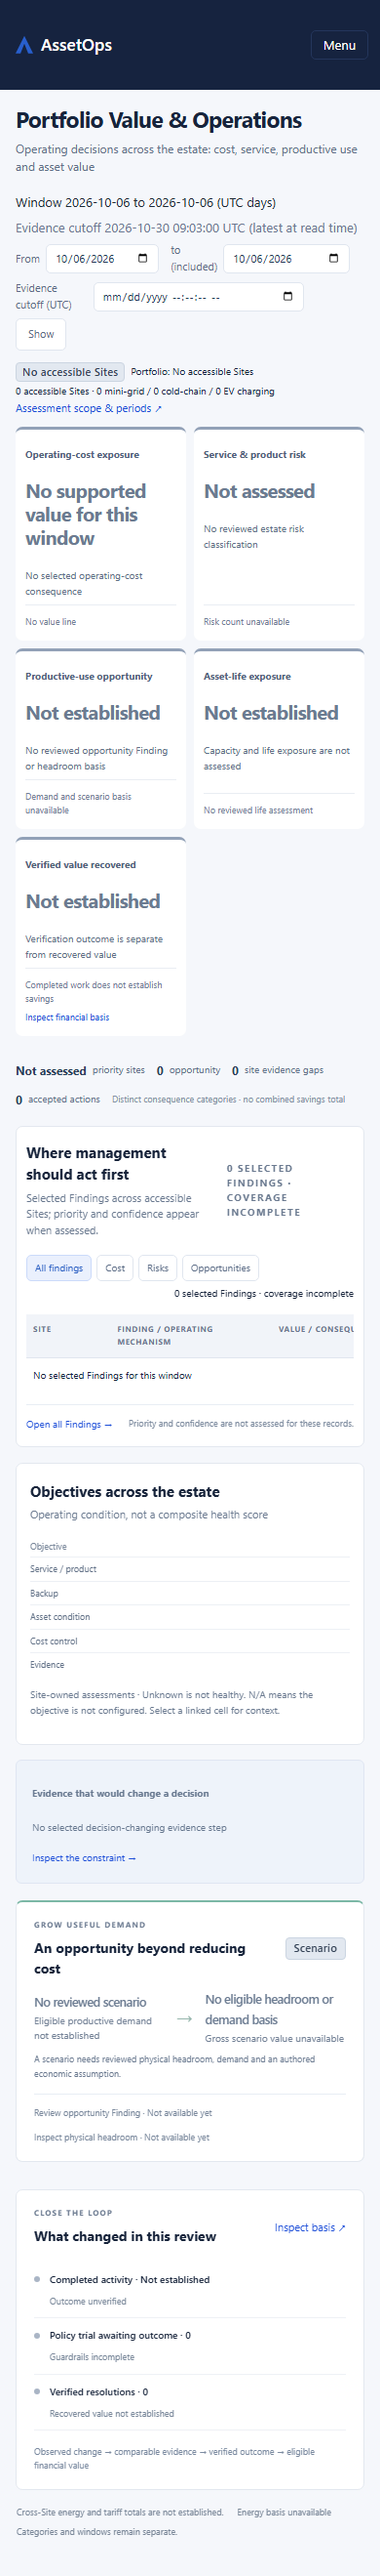
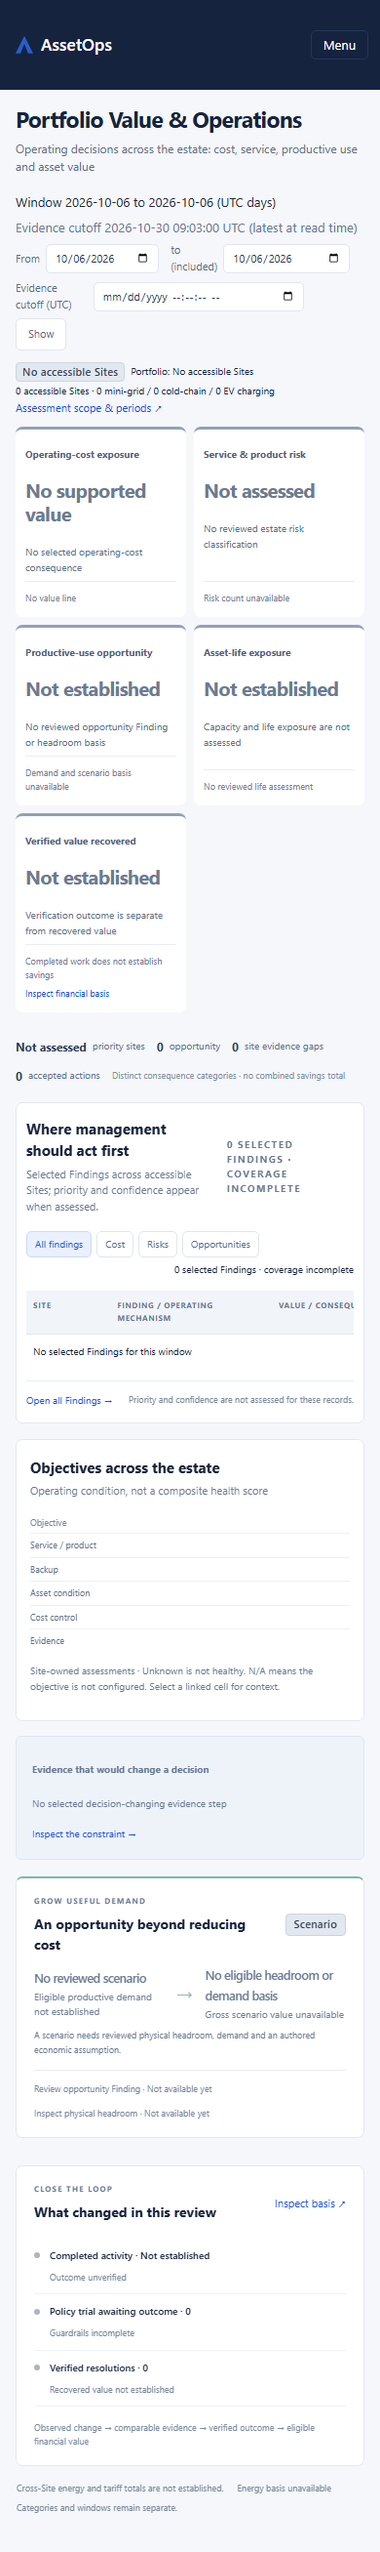
W3-03 run 3: r3b recapture, review packet, handoff, P-3-2 resolved

diff --git a/.agent/W3-03-review-packet.md b/.agent/W3-03-review-packet.md
@@ -1,0 +1,94 @@
+# W3-03 review packet (Portfolio composition)
+
+Task: W3-03 `tasks/W3-03-*`; contract `.agent/W3-03-build-spec.md` (closures 4-5, r0a..r3b). Branch
+`task/W3-03-portfolio-composition`; reviewed baseline `04474b3c` (run 2); packet head = the commit after `13624ab2`.
+USER_REVIEW: UI slice; hold the merge for the owner walkthrough (W1 rule).
+Independent-review command: `git diff 6cdb8c4b..HEAD -- ':!.agent'` (6cdb8c4b = merge base with main; 49 files, +5419/-130).
+
+## Commits
+0a Lane A `87f8ffed` `9f24f4e5`; 0b `45592a22` `7ab8019a` `e21a9355`; 1a `450f5f9f` `565335aa`; 1b Lane A `06acf1cf`
+`f5407e95`, Lane B `f3f04ef6` `3a0d96bc` `6c4e0449` `0f29d4cb` `271577c6` `1a5c0c2f`; run 2 `2845897c` `a0631e80` `d3fb632b`
+`4a1fd7f9` `5cef129c` `c501d089` `04474b3c`; P-2-1 `63e83d83`; run 3 `8af47c17` (registry), `e055b841` (captures), r3b `13624ab2`.
+Handoff-only commits and main merges omitted. No migration file is in the range (no path under any `versions/` dir
+changed; no `0031` file exists).
+
+## Files materially changed
+- Lane A (existing estate files): `estate/coverage.py`, `financials.py`, `index.py`, `scope.py`, `evidence_money.py`,
+  `adapters/postgres_estate_read.py`, `evidence/adapters/postgres_evidence_ledger.py`, `main.py` (mount), `estateClient.ts`,
+  shell `App.tsx`, `EstateRootFrames.tsx`, `OperatorShellLayout.tsx`, `operatorSiteRoutes.ts`, registry/ledger JSON,
+  `ui/gapCatalogue.ts`, `test/panelStructure.ts`, `test/settled.ts`, two navigation guard fixtures.
+- Lane B: `estate/portfolio.py`, `estate_portfolio_api.py`, `estate/composition.py`, `EstatePortfolio.tsx`,
+  `portfolioWords.ts`, `estatePortfolio.css`; tests `test_w303_*`, `estatePortfolio*.test.tsx`, `portfolioFixtures.ts`.
+- Evidence: `.agent/W3-03-evidence/` (`test_serve_portfolio.py`, `capture-portfolio.mjs`, eight `app-portfolio-<state>.json`,
+  `portfolio-<state>-{1440,390}-app.png`).
+
+## Acceptance
+| Criterion | Status / proof |
+| --- | --- |
+| One-snapshot four-selector scope, auth, signed cursor, selection token | Met: `test_w303_portfolio_scope_snapshot_postgres.py` (12 selector calls + 1 action, 1 snapshot), `test_w303_portfolio_api.py` cursor/refusal tests; reviews 1a, 1b |
+| Full-scope cards, matrix, prompt, opportunity, progress, footer; never paged; no client sum | Met: `test_full_scope_projections_ignore_page_size_and_empty_scope`, comparison/fixture Postgres tests, page tests |
+| B3 one-day three-domain persisted proof; W1/cold/EV money boundaries | Met in `test_w303_portfolio_fixture_postgres.py` (cold excursion + W2-04 drain, r0b) |
+| Q9 variants | Pure vs persisted per r1b3 (P-1b-1..6), see limitations |
+| Page: v69 panel order/titles, 1440/390 caps, empty/pending/historical/refusal states | Met; eight captures below, `expectV69Panels` and planted-panel rejection |
+| Refusal clearing (409 on load-more), 401/503 show no privileged block | Met: captures refusal-409/401/503 |
+| Registry: four `panels` rows (`gap`), nodes `I-estate-portfolio-read`/`-ui`, `G-portfolio-opportunity` gap + mirror + two `MissingClaim` | Met (r2, r3): registry checker exit 0, missing-claim scan, check-all 11/11 |
+| Empty-state copy r3b | Met: `No supported value` (API `DISPLAYED_VALUE` + `CARD_VALUE` fallback), exact tests in both stacks |
+
+## Independent reviews
+| Unit | Verdict |
+| --- | --- |
+| spec review / closure checks 1-5 | closed before build (`W3-03-spec-review.md`, `closure-check*.md`, `closure4-check.md`, `seam-recheck.md`) |
+| 0a | REVISE (M1 `_windows_covered`) then ACCEPT (`0a-review`, `0a-rereview`) |
+| 0b | REVISE (H1 re-pin clock, M1/M2, Lows) then ACCEPT (`0b-review`, `0b-rereview`) |
+| 1a | REVISE (M1 `finding_count` on partial coverage), fixed in `565335aa` (`1a-review`) |
+| 1b (with r1a fix) | ACCEPT (`1b-review`); Lows closed in r1b3/`1a5c0c2f` |
+| final review | pending (next step) |
+
+## Ruling rounds applied
+Closures 4-5 (B1-B4, S1-S19, N1-N10; S4 reductions, S7 workflow labels); r0a (0a), r0b (P-0b-1 cold excursion + drain);
+r1a (Q-1a-1 private `_selected_recorded_at`, eleven readings); r1a2 (review items); r1b (Q-1b-1 cursor key, Q-1b-2
+workflow-label precedence, Q-1b-3 line-less guard); r1b2 (readings R1-R13); r1b3 (P-1b-1..6); r1b4 (1b review Lows);
+r2 (P-2-1 + eleven readings, all Confirm); r3 (P-3-1 registry nodes); r3b (P-3-2 literal + scroll gate).
+All pending items in `W3-03-pending-rulings.md` are marked RESOLVED.
+
+## Builder readings
+Run-0a readings 1-6 (`W3-03-phase-handoff.md` "Readings"): first of six runs; private `_domain/_episode_end/_mechanism`
+and `_plans/_outcomes/_outcome_id` keys keep root bytes; nonnull `state_filter` or bad lens = 422; cursor tests in
+`test_w303_estate_cursor.py`; client status union deferred. Runs 1a/1b readings (eleven + R4-R13) and run-2 readings
+1-11 are in the handoff and build spec "Eleven handoff readings", "Five 1b readings", "Eleven run-2 readings"; all ruled
+(Confirm or replaced) by r1a/r1b2/r2.
+
+## Accepted limitations
+- Q9 (a)-(d) variants and the persisted overlap/false-guard/two-Action-tie cases are proven pure or on a fake snapshot,
+  not persisted (r1b3).
+- Opportunity CTAs and unlinked Finding/Site targets are inert "Not available yet" (G-portfolio-opportunity).
+- Registry rows stay `gap` until independent whole-slice review; `A-estate-comparability` is not closed here.
+- Second Action row on one Finding origin is not persisted in any fixture.
+
+## Checks run (head `13624ab2` code; packet commit adds only `.agent` files)
+- Focused: `estatePortfolio.test.tsx` 15/15; `test_w303_portfolio_api.py` 4 passed, 1 skipped (Postgres-only).
+- Full frontend suite, run 1: 104 files, 2450/2450 passed. Run 2: 104 files, 2450/2450 passed.
+  Earlier run (before r3b) failed once: `s404SiteFindingIndex.test.tsx` "changing the dates writes a new window"
+  (`toHaveValue 2026-10-20`); it passed alone (37/37) and in both reruns above, so it is a flake under full-suite load.
+- `tsc --noEmit` exit 0; `npm run build` ok; `tools/check-all.ps1` 11/11 guards passed.
+- Full real-Postgres backend suite: not run here (coordinator owns it).
+
+## Captures (Vite via localhost -> API :9781, private `w303p_test`, dropped; `.agent/W3-03-evidence/`)
+| State | Status | Matrix Sites | Doc height 1440/390 | over / failed |
+| --- | --- | --- | --- | --- |
+| positive | CURRENT | 4 | 1362 / 2947 | [] / [] |
+| partial | UNKNOWN | 5 | 1319 / 2966 | [] / [] |
+| historical | HISTORICAL | 5 | 1319 / 2732 | [] / [] |
+| pending | PENDING | 4 | 1362 / 2947 | [] / [] |
+| empty | EMPTY_SCOPE | 0 | 1232 / 2614 | [] / [] (390 card0 = card1 = 194 <= 207) |
+| refusal-401 / 503 / 409 | UNAUTHENTICATED / ESTATE_STORE_UNAVAILABLE / ESTATE_BASIS_CHANGED | 0 | refusal | [] / [] |
+Matrix-scroll gate: 390 and >= 4 Sites needs `scrollWidth > clientWidth` (positive, partial, historical, pending pass);
+fewer Sites assert the exact column count and the container. Empty 390 image viewed: "No supported value" fits two-line
+in the first-row cards, no overflow.
+
+## Known deviations
+None new. P-3-2 resolved by r3b.
+
+## Residual risk / user-review focus
+Owner walkthrough of the Portfolio page at 390 (stacked cards, matrix horizontal scroll) and the empty state wording;
+registry `gap` statuses after final review.

diff --git a/.agent/W3-03-pending-rulings.md b/.agent/W3-03-pending-rulings.md
@@ -178,7 +178,7 @@ per the dispatch rule; no captures were taken.
 Question: (a) amend each row's `requires` (which projection/ui node per panel), or a new registry node; and
 (b) confirm the forced `portfolio` ledger `registry_dependencies` (`P-estate-area` + panel-order union).
 
-## P-3-2 (run 3, OPEN): `empty` (EMPTY_SCOPE) capture at 390 exceeds two card caps; matrix cannot scroll with zero Sites
+## P-3-2 — RESOLVED by r3b ("No supported value" literal, API + fallback; matrix-scroll gate only for >=4 Sites; empty 390 card0.h=card1.h=194 <= 207, over=[]): `empty` (EMPTY_SCOPE) capture at 390 exceeds two card caps; matrix cannot scroll with zero Sites
 Captured on the real API (`W303_ROUTER=capture`, `tenant=foreign`, fresh UUID; API 200 `EMPTY_SCOPE`, F/E/M
 `EMPTY/EMPTY/EMPTY`, 0 rows, 0 Sites). `app-portfolio-empty.json` / `portfolio-empty-390-app.png`:
 1. `card0 218>207; card1 218>207`. Card 0 is `OPERATING_COST:NO_LINE` with the large value line

diff --git a/.agent/W3-03-phase-handoff.md b/.agent/W3-03-phase-handoff.md
@@ -393,3 +393,12 @@ First resolve P-2-1. Run 3: registry panel rows (S16), pending/empty/refusal cap
 - Not done: review packet (waits on P-3-2, which may change the page and require recapture).
 
 ## Next: rule P-3-2, then finish run 3 (any fix + recapture, packet), then final review + full suite
+
+## Run 3 finished (after r3b)
+- `13624ab2`: `NO_LINE` value `No supported value` (API `DISPLAYED_VALUE` + `CARD_VALUE` fallback; exact tests
+  `test_w303_portfolio_api.py::test_full_scope_projections...` and `estatePortfolio.test.tsx` noLineCard test); capture
+  matrix-scroll gate (>=4 Sites needs overflow; fewer asserts the exact column count and the container). All eight
+  states recaptured at 1440/390 (Vite via `localhost`, API :9781, private `w303p_test` dropped); empty 390 card0/card1
+  194, over=[]. P-3-2 resolved. Packet: `.agent/W3-03-review-packet.md`.
+
+## Next: final review + full suite
